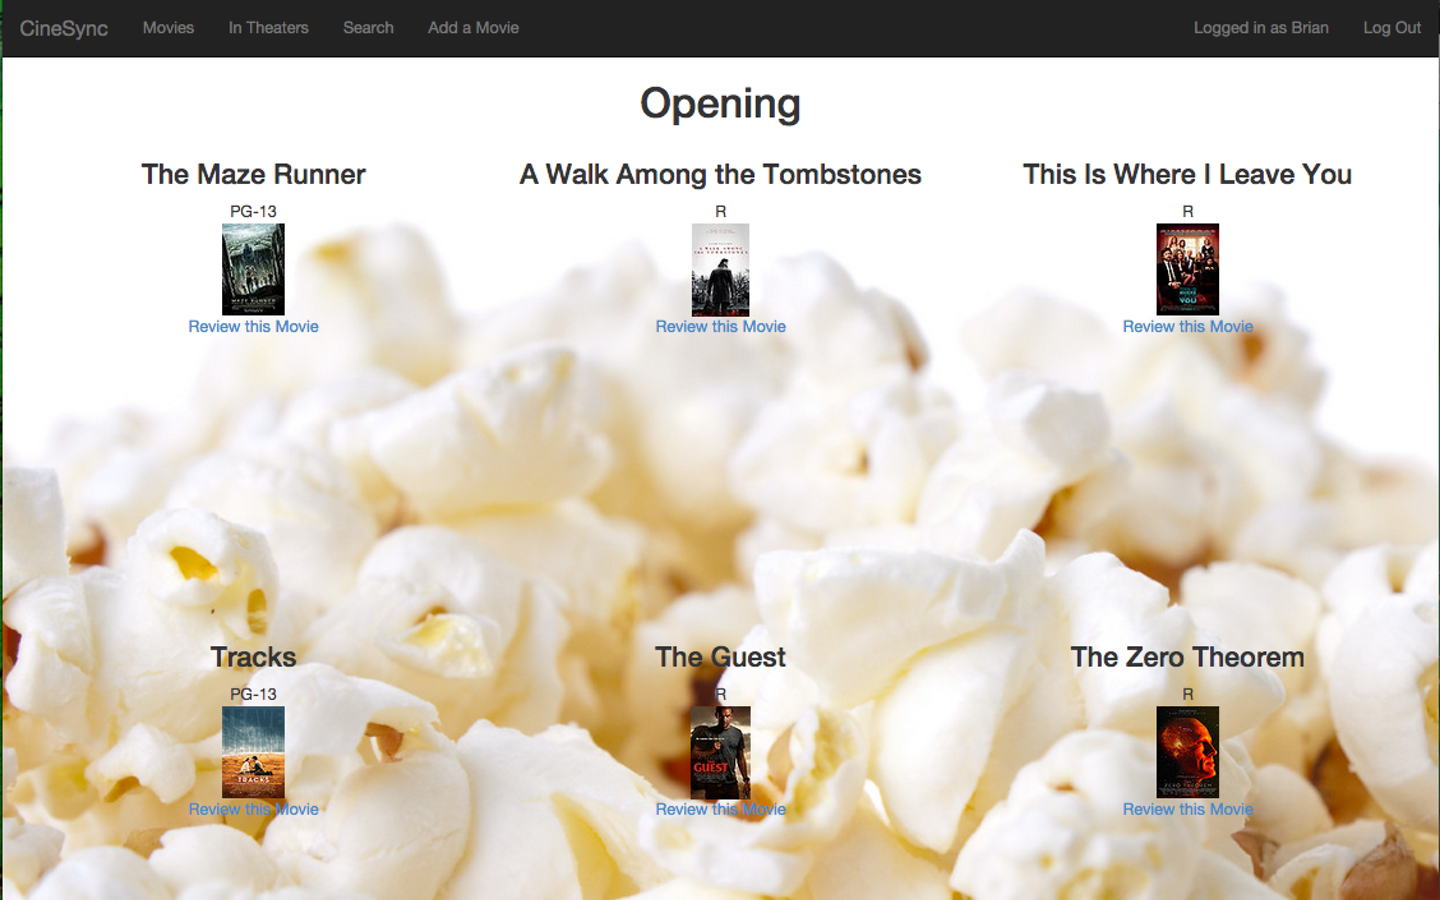
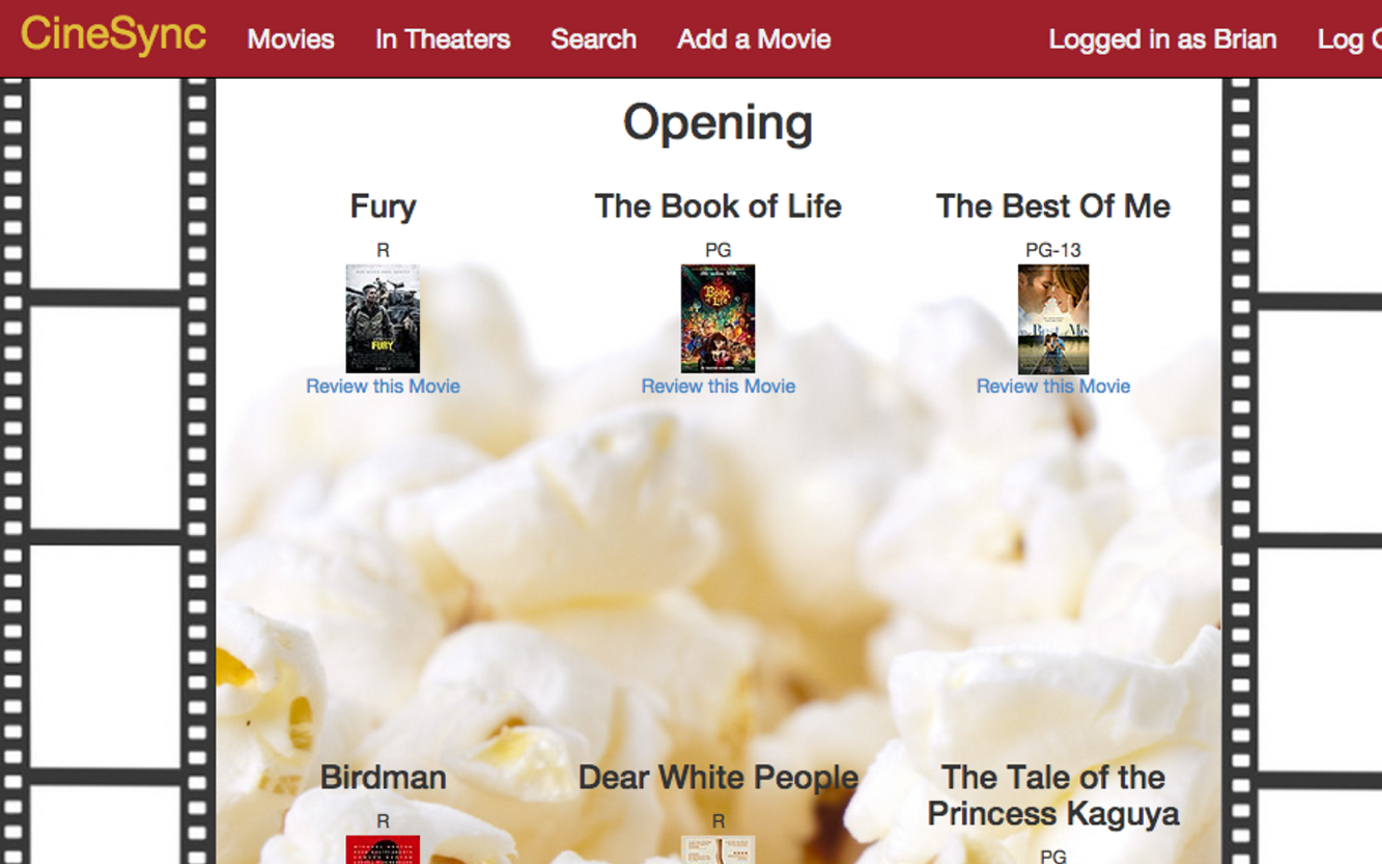
update portfolio photos

diff --git a/assets/images/index.html b/assets/images/index.html
@@ -297,7 +297,7 @@
 
 						<!--==== Project Preview HTML ====-->
 
-						<div class="sr-only project-description" data-images="assets/images/Goturbac.png,assets/images/Goturbac2.png" >
+						<div class="sr-only project-description" data-images="assets/images/Goturbac.png,assets/images/goturbac2.png" >
 
 							<p>GoturBAC is web app I designed to give an estimate for a users BAC level, based on a BAC calculator I built in Ruby. I created it in anticipation of a graduation party, to help people have an idea of just how intoxicated they may be.</p>
 							<p>One feature I decided to add was the "Preferred BAC" setting. The user, once they hit a point where they feel good but haven't gone overboard, can set a preferred BAC that they can refer to in the future, so they'll know their sweet spot on just how much is enough. Nobody likes to go overboard.</p>
@@ -345,7 +345,7 @@
 
 						<!--==== Project Preview HTML ====-->
 
-						<div class="sr-only project-description" data-images="assets/images/CineSync.png,assets/images/Cinesync2.png" >
+						<div class="sr-only project-description" data-images="assets/images/CineSync.png,assets/images/CineSync2.png" >
 
 							<p>CineSync is my first real Web App, and it's one that I'd still like to put a lot more work into. The internet already has a few review amalgamation sites like Rotten Tomatoes and Metacritic, but sometimes even these sites aren't terribly helpful. Maybe you hate the movies critics tend to clamor over, or maybe you like horror movies but they always seem to get bad reviews.</p>
 							<p>The idea for CineSync is that instead of searching through critics reviews, you can find users whose taste in movies align more with your own. This would make it easier to find new movies that you'll love, and avoid movies that you'd hate. You can follow users and read reviews that appeal to who you are as a movie goer, and even write your own and develop a following of like minded cinephiles.</p>
